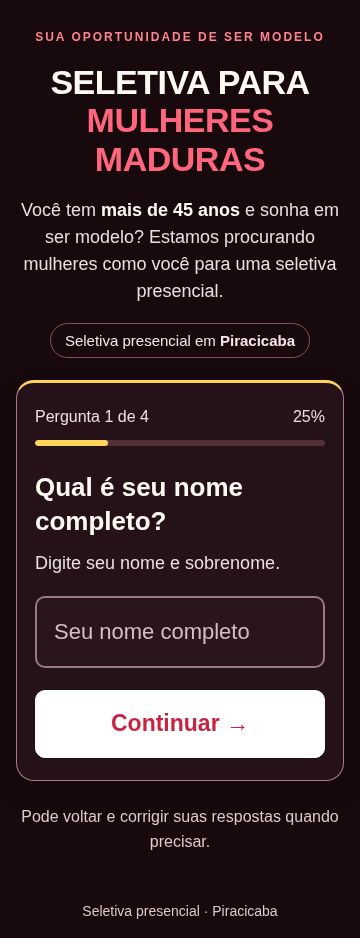
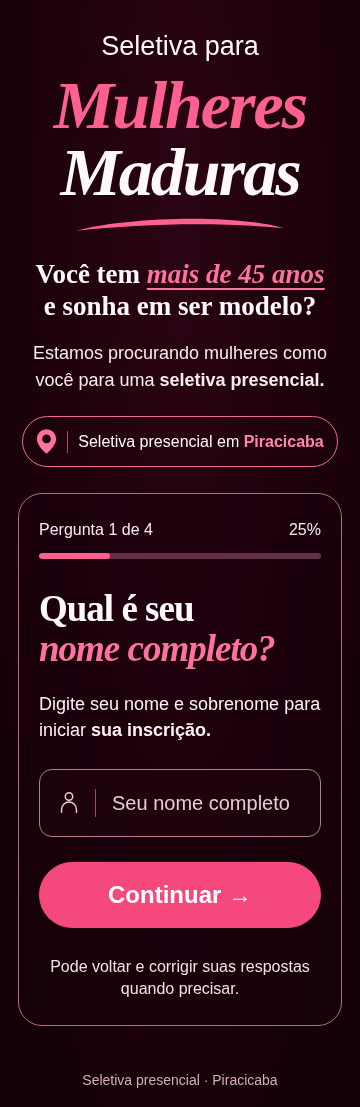
Aplicar referências em rosa e vinho ao questionário e cabeçalho [skip netlify]

diff --git a/index.html b/index.html
@@ -1,10 +1,10 @@
 <!DOCTYPE html>
 <html lang="pt-BR"><head><meta charset="UTF-8"><meta name="viewport" content="width=device-width,initial-scale=1"><meta name="description" content="Seletiva presencial em Piracicaba para mulheres acima de 45 anos que sonham em ser modelos. Inscreva-se respondendo a 4 perguntas simples."><title>Seletiva de modelos em Piracicaba | Mulheres acima de 45 anos</title>
 <style>
-*{box-sizing:border-box}body{margin:0;background:#17090c;color:#fff9f4;font-family:Arial,sans-serif;font-size:20px;line-height:1.55}p{margin:12px 0}.hero{padding:36px 20px 22px;text-align:center}.hero-inner{max-width:780px;margin:auto}.hero-kicker{margin:0 0 16px;color:#ff8292;font-size:12px;font-weight:700;letter-spacing:2px}.hero h1{margin:0 auto 18px;max-width:720px;font-family:Impact,'Arial Narrow',Arial,sans-serif;font-size:44px;line-height:1.14;letter-spacing:-.5px;text-transform:uppercase;overflow-wrap:break-word}.hero h1 span{color:#ff657c}.hero-copy{max-width:580px;margin:0 auto;color:#eadde0;font-size:19px;line-height:1.5}.hero-copy strong{color:#fff9f4}.hero-location{display:inline-block;margin:18px 0 0;padding:5px 14px;border:1px solid #85515c;border-radius:24px;color:#f5e3e7;font-size:15px}main{max-width:580px;margin:0 auto 30px;padding:0 24px}.form-intro{text-align:center;color:#eadde0;font-size:18px;margin:0 0 24px}.card{background:#251218;padding:28px;border:1px solid #a87884;border-top:3px solid #ffd45a;border-radius:18px;box-shadow:0 12px 28px #00000020}.progress-text{display:flex;justify-content:space-between;font-size:16px;color:#eadde0}.track{height:6px;background:#543039;border-radius:8px;margin:10px 0 25px;overflow:hidden}.fill{height:100%;background:#ffd45a;border-radius:8px;animation:progress-in 180ms ease-out both}h2{font-size:28px;line-height:1.3;margin:0 0 10px}.hint{font-size:18px;color:#eadde0;margin-bottom:18px}input{width:100%;min-width:0;font:inherit;font-size:22px;padding:17px;border:2px solid #9c7982;border-radius:10px;color:#fff9f4;background:#29151b;min-height:64px}input::placeholder{color:#d5bec5;opacity:1}input:focus,button:focus-visible{outline:3px solid #ffd45a;outline-offset:4px}input[aria-invalid=true]{border-color:#ff9ca9}button{font:inherit;font-weight:bold;cursor:pointer;border-radius:10px;min-height:62px;padding:15px 20px;touch-action:manipulation;white-space:normal;overflow-wrap:break-word}button:disabled{cursor:wait;opacity:.7}.primary{background:#fff;color:#c92343;border:1px solid #fff;flex:1 1 100%;width:100%;order:-1;font-size:23px;font-weight:900;min-height:66px;letter-spacing:0;box-shadow:none}.primary:hover{background:#fff3f5}.choice-yes:hover{background:#ffcb36}.back{background:transparent;border:1px solid #9c7982;color:#f5e3e7;font-size:18px;padding:14px}.actions{display:flex;flex-wrap:wrap;justify-content:center;gap:12px;margin-top:22px}.actions .back{min-height:48px;padding:8px 18px}.choice{display:block;width:100%;border:2px solid #9c7982;border-radius:12px;padding:19px 14px;margin:16px 0;cursor:pointer;font-size:20px;line-height:1.35;background:#29151b;color:#fff9f4}.choice-yes{background:#ffd45a;color:#302b20;border-color:#ffd45a;min-height:82px;font-size:24px;box-shadow:0 0 0 4px #ffd45a18,0 0 20px #ffd45a25}.primary,.choice{transition:transform 100ms ease,background-color 100ms ease}.primary:active,.choice:active{transform:scale(.985)}form{animation:question-in 180ms ease-out both}@keyframes question-in{from{opacity:0;transform:translateY(7px)}to{opacity:1;transform:translateY(0)}}@keyframes progress-in{from{width:var(--previous-progress)}}@media(prefers-reduced-motion:reduce){form,.fill,.primary{animation:none}.primary,.choice{transition:none}.primary:active,.choice:active{transform:none}}.error{color:#ffe5e9;background:#521f2b;border:1px solid #ff9ca9;padding:12px;border-radius:8px;font-size:18px;margin-top:16px}.error:empty{display:none}.privacy{font-size:16px;color:#dec9d0;margin-top:22px}.reassure{font-size:16px;text-align:center;color:#dec9d0;margin-top:24px}.success-icon{width:64px;height:64px;border-radius:50%;background:#ffd45a;color:#302b20;display:grid;place-items:center;font-size:34px;margin-bottom:20px}footer{text-align:center;color:#dec9d0;font-size:14px;padding:16px 20px}@media(max-width:600px){.hero{padding:28px 20px 22px}.hero h1{font-size:34px;max-width:440px}.hero-copy{font-size:18px}main{padding:0 16px}.card{padding:22px 18px}h2{font-size:26px}}@media(max-width:350px){.hero{padding-left:16px;padding-right:16px}.hero h1{font-size:30px}main{padding:0 12px}.card{padding:20px 14px}.choice-yes{font-size:22px}.back{padding:12px 10px}.primary{padding:14px 12px}}
+*{box-sizing:border-box}body{margin:0;background:#1b000b;background:radial-gradient(ellipse at 50% 20%,#2b0414 0%,#160008 80%);color:#fff9fb;font-family:Arial,sans-serif;font-size:20px;line-height:1.5}p{margin:12px 0}.hero{text-align:center;padding:36px 22px 28px}.hero-inner{max-width:740px;margin:auto}.hero h1{margin:0 auto 24px;max-width:600px;line-height:.98;font-weight:700}.hero h1 .title-intro{display:block;font-size:32px;font-weight:500;line-height:1.35;margin-bottom:8px}.title-women,.title-mature{display:block;font-family:Georgia,'Times New Roman',serif;font-style:italic;font-size:82px;letter-spacing:-3px}.title-women{color:#ff6090}.title-mature{color:#fff9fb}.title-swoosh{display:block;width:65%;height:18px;margin:10px auto 0;color:#ff6090}.hero-copy{margin:0 auto;max-width:620px}.hero-question{font-family:Georgia,'Times New Roman',serif;font-size:30px;line-height:1.2;font-weight:700;margin:0 0 18px}.hero-question em{color:#ff729e;font-style:italic;text-decoration:underline;text-decoration-thickness:2px;text-underline-offset:5px}.hero-description{font-size:19px;line-height:1.5;color:#f7eaf0;margin:0}.hero-location{display:inline-flex;align-items:center;justify-content:center;gap:12px;border:1.5px solid #f36a96;border-radius:40px;padding:11px 18px;margin:22px 0 0;font-size:17px;line-height:1.4}.hero-location svg{width:23px;height:29px;flex:none;color:#ff729e}.location-text{border-left:1px solid #a64b6a;padding-left:12px}.hero-location strong{color:#ff86ad}main{max-width:610px;margin:0 auto 28px;padding:0 20px}.card{padding:28px;border:1px solid #b46b85;border-radius:24px;background:#19000b55}.progress-text{display:flex;justify-content:space-between;gap:12px;font-size:16px;color:#f7eaf0}.track{height:6px;background:#633146;border-radius:8px;margin:11px 0 30px;overflow:hidden}.fill{height:100%;background:#ff6090;border-radius:8px;animation:progress-in 180ms ease-out both}h2{font-family:Georgia,'Times New Roman',serif;font-size:43px;line-height:1.08;letter-spacing:-1px;font-weight:700;margin:0 0 23px}h2 em{color:#ff729e;font-style:italic}.hint{font-size:19px;color:#fff0f5;line-height:1.4;margin:0 0 26px}.input-wrap{position:relative}.input-icon{position:absolute;top:50%;left:18px;transform:translateY(-50%);padding-right:14px;border-right:1px solid #a64b6a;display:flex;align-items:center;pointer-events:none;color:#f0c7d6}.input-icon svg{width:24px;height:28px}input{width:100%;min-width:0;font:inherit;font-size:20px;padding:18px 14px 18px 72px;border:1.5px solid #b87b91;border-radius:13px;color:#fff9fb;background:#ffffff03;min-height:67px}input::placeholder{color:#e6ccd7;opacity:1}input:focus,button:focus-visible{outline:3px solid #ff8eb2;outline-offset:4px}input[aria-invalid=true]{border-color:#ff9fbb}button{font:inherit;font-weight:700;cursor:pointer;min-height:62px;padding:14px 18px;touch-action:manipulation;white-space:normal;overflow-wrap:break-word}button:disabled{cursor:wait;opacity:.7}.primary{background:#f5487c;color:#fff;border:1px solid #f5487c;border-radius:40px;flex:1 1 100%;width:100%;order:-1;font-size:24px;min-height:65px;font-weight:700}.primary:hover,.choice-yes:hover{background:#df356a}.actions{display:flex;flex-wrap:wrap;justify-content:center;gap:12px;margin-top:25px}.back{background:transparent;border:1px solid #9e5a75;border-radius:24px;color:#ffe9f1;font-size:17px;min-height:46px;padding:9px 20px}.choice{display:block;width:100%;border:1.5px solid #b87b91;border-radius:18px;padding:18px 14px;margin:16px 0;font-size:20px;line-height:1.35;background:transparent;color:#fff9fb}.choice-yes{background:#f5487c;border-color:#f5487c;color:white;min-height:78px;font-size:23px}.primary,.choice{transition:transform 100ms ease,background-color 100ms ease}.primary:active,.choice:active{transform:scale(.985)}form{animation:question-in 180ms ease-out both}@keyframes question-in{from{opacity:0;transform:translateY(7px)}to{opacity:1;transform:translateY(0)}}@keyframes progress-in{from{width:var(--previous-progress)}}@media(prefers-reduced-motion:reduce){form,.fill{animation:none}.primary,.choice{transition:none}.primary:active,.choice:active{transform:none}}.error{color:#ffe5ef;background:#4b1328;border:1px solid #ff9fbb;padding:12px;border-radius:10px;font-size:18px;margin-top:16px}.error:empty{display:none}.privacy{font-size:16px;color:#ecd0dd;margin-top:22px}.reassure{font-size:16px;text-align:center;color:#f2dfe8;margin:28px 0 0;line-height:1.4}.success-icon{width:64px;height:64px;border-radius:50%;background:#f5487c;color:white;display:grid;place-items:center;font-size:34px;margin-bottom:20px}footer{text-align:center;color:#d4acbe;font-size:14px;padding:16px 20px}@media(max-width:600px){.hero{padding:28px 20px 26px}.hero h1 .title-intro{font-size:27px}.title-women,.title-mature{font-size:68px;letter-spacing:-2px}.hero-question{font-size:27px}.hero-description{font-size:18px}.hero-location{font-size:16px;padding:10px 13px;gap:10px}.hero-location svg{width:21px}.location-text{padding-left:10px}main{padding:0 18px}.card{padding:24px 20px}h2{font-size:37px}.hint{font-size:18px}.reassure{font-size:16px}}@media(max-width:350px){.hero{padding-left:16px;padding-right:16px}.title-women,.title-mature{font-size:60px}.hero-question{font-size:25px}.hero-location{font-size:15px}main{padding:0 14px}.card{padding:22px 17px}h2{font-size:33px}input{font-size:18px;padding-left:64px}.input-icon{left:14px;padding-right:10px}.primary{font-size:23px}.choice-yes{font-size:21px}}
 </style></head><body>
-<header class="hero"><div class="hero-inner"><p class="hero-kicker">SUA OPORTUNIDADE DE SER MODELO</p><h1>Seletiva para <span>MULHERES MADURAS</span></h1><p class="hero-copy">Você tem <strong>mais de 45 anos</strong> e sonha em ser modelo? Estamos procurando mulheres como você para uma seletiva presencial.</p><p class="hero-location">Seletiva presencial em <strong>Piracicaba</strong></p></div></header>
-<main><section class="card" aria-label="Formulário de inscrição"><div id="content"></div></section><p class="reassure">Pode voltar e corrigir suas respostas quando precisar.</p></main><footer>Seletiva presencial · Piracicaba</footer>
+<header class="hero"><div class="hero-inner"><h1><span class="title-intro">Seletiva para</span><span class="title-women">Mulheres</span><span class="title-mature">Maduras</span><svg class="title-swoosh" viewBox="0 0 320 20" aria-hidden="true"><path d="M0 19C80-3 244-7 320 15C216 5 103 8 0 19Z" fill="currentColor"/></svg></h1><div class="hero-copy"><p class="hero-question">Você tem <em>mais de 45 anos</em><br>e sonha em ser modelo?</p><p class="hero-description">Estamos procurando mulheres como você para uma <strong>seletiva presencial.</strong></p></div><p class="hero-location"><svg viewBox="0 0 24 30" aria-hidden="true"><path fill="currentColor" d="M12 1a11 11 0 0 0-11 11c0 8 11 17 11 17s11-9 11-17A11 11 0 0 0 12 1Zm0 16a5 5 0 1 1 0-10 5 5 0 0 1 0 10Z"/></svg><span class="location-text">Seletiva presencial em <strong>Piracicaba</strong></span></p></div></header>
+<main><section class="card" aria-label="Formulário de inscrição"><div id="content"></div><p class="reassure">Pode voltar e corrigir suas respostas quando precisar.</p></section></main><footer>Seletiva presencial · Piracicaba</footer>
 <script>
 const META_PIXEL_ID = '1801282187897715';
 const trackedSteps = new Set();
@@ -30,11 +30,13 @@ const normalizeAge = function normalizeAge(value) {
 };
 const values={name:'',age:'',phone:'',attendance:null};let step=0,busy=false,previousProgress=0;const content=document.getElementById('content');
 const questions=['Qual é seu nome completo?','Qual é sua idade?','Qual é seu celular com DDD?','Você consegue comparecer à seletiva presencial em Piracicaba?'];
-const hints=['Digite seu nome e sobrenome.','Digite sua idade. Pode escrever 52 ou 52 anos.','Digite o DDD e o número do seu celular.','Toque na sua resposta para concluir a inscrição.'];
+const hints=['Digite seu nome e sobrenome para iniciar <strong>sua inscrição.</strong>','Digite sua idade. Pode escrever 52 ou 52 anos.','Digite o DDD e o número do seu celular.','Toque na sua resposta para concluir a inscrição.'];
+const questionMarkup=['Qual é seu<br><em>nome completo?</em>','Qual é sua<br><em>idade?</em>','Qual é seu<br><em>celular com DDD?</em>','Você consegue <em>comparecer</em> à seletiva presencial em Piracicaba?'];
+const fieldIcons=['<circle cx="12" cy="8" r="4"/><path d="M4 25v-3a8 8 0 0 1 16 0v3"/>','<rect x="3" y="6" width="18" height="20" rx="3"/><path d="M7 2v8M17 2v8M3 13h18M8 18h2M14 18h2"/>','<rect x="5" y="2" width="14" height="25" rx="3"/><path d="M10 23h4"/>'];
 function save(){const field=document.getElementById('answer');if(step<3&&field) values[['name','age','phone'][step]]=field.value;}
 function showError(message){const el=document.getElementById('error');el.textContent=message;document.getElementById('answer')?.setAttribute('aria-invalid','true');}
-function render(focus=false){if(!trackedSteps.has(step)){trackedSteps.add(step);trackMeta('FormStepViewed',{step:step+1});}content.innerHTML='<div class="progress-text"><span>Pergunta '+(step+1)+' de 4</span><span>'+Math.round((step+1)/4*100)+'%</span></div><div class="track" aria-hidden="true"><div class="fill" style="--previous-progress:'+previousProgress+'%;width:'+((step+1)*25)+'%"></div></div><form novalidate><h2 id="question" tabindex="-1">'+questions[step]+'</h2><p class="hint" id="hint">'+hints[step]+'</p><div id="fields"></div><p id="error" class="error" role="alert"></p><div class="actions">'+(step?'<button type="button" class="back">← Voltar</button>':'')+(step<3?'<button type="submit" class="primary">Continuar →</button>':'')+'</div>'+(step===3?'<p class="privacy">Ao tocar em uma resposta, você conclui sua inscrição e autoriza o uso do seu nome, idade e celular para organizar esta seletiva e entrar em contato sobre sua inscrição.</p>':'')+'</form>';
-previousProgress=(step+1)*25;const fields=document.getElementById('fields');if(step<3){const input=document.createElement('input');input.id='answer';input.setAttribute('aria-labelledby','question');input.setAttribute('aria-describedby','hint error');input.required=true;input.type='text';input.inputMode=step===2?'tel':'text';input.autocomplete=step===0?'name':step===2?'tel-national':'off';input.maxLength=step===0?150:step===1?30:16;input.placeholder=['Seu nome completo','Sua idade','(19) 99999-9999'][step];input.value=values[['name','age','phone'][step]];fields.append(input);input.addEventListener('input',()=>{if(!formStarted){formStarted=true;trackMeta('FormStarted');}if(step===2){let d=input.value.replace(/\D/g,'').slice(0,11);input.value=d.length>2?'('+d.slice(0,2)+') '+d.slice(2,7)+(d.length>7?'-'+d.slice(7):''):d;}save();});}else{fields.setAttribute('role','group');fields.setAttribute('aria-labelledby','question');for(const [value,text] of [[true,'Sim, consigo comparecer'],[false,'Não consigo comparecer']]){const button=document.createElement('button');button.type='button';button.className=value?'choice choice-yes':'choice choice-no';button.textContent=text;button.addEventListener('click',()=>{if(busy)return;values.attendance=value;submit({preventDefault(){}},button);});fields.append(button);}}
+function render(focus=false){if(!trackedSteps.has(step)){trackedSteps.add(step);trackMeta('FormStepViewed',{step:step+1});}content.innerHTML='<div class="progress-text"><span>Pergunta '+(step+1)+' de 4</span><span>'+Math.round((step+1)/4*100)+'%</span></div><div class="track" aria-hidden="true"><div class="fill" style="--previous-progress:'+previousProgress+'%;width:'+((step+1)*25)+'%"></div></div><form novalidate><h2 id="question" tabindex="-1">'+questionMarkup[step]+'</h2><p class="hint" id="hint">'+hints[step]+'</p><div id="fields"></div><p id="error" class="error" role="alert"></p><div class="actions">'+(step?'<button type="button" class="back">← Voltar</button>':'')+(step<3?'<button type="submit" class="primary">Continuar →</button>':'')+'</div>'+(step===3?'<p class="privacy">Ao tocar em uma resposta, você conclui sua inscrição e autoriza o uso do seu nome, idade e celular para organizar esta seletiva e entrar em contato sobre sua inscrição.</p>':'')+'</form>';
+previousProgress=(step+1)*25;const fields=document.getElementById('fields');if(step<3){const input=document.createElement('input');input.id='answer';input.setAttribute('aria-labelledby','question');input.setAttribute('aria-describedby','hint error');input.required=true;input.type='text';input.inputMode=step===2?'tel':'text';input.autocomplete=step===0?'name':step===2?'tel-national':'off';input.maxLength=step===0?150:step===1?30:16;input.placeholder=['Seu nome completo','Sua idade','(19) 99999-9999'][step];input.value=values[['name','age','phone'][step]];const wrap=document.createElement('div');wrap.className='input-wrap';const icon=document.createElement('span');icon.className='input-icon';icon.setAttribute('aria-hidden','true');icon.innerHTML='<svg viewBox="0 0 24 30" fill="none" stroke="currentColor" stroke-width="1.6" stroke-linecap="round" stroke-linejoin="round">'+fieldIcons[step]+'</svg>';wrap.append(icon,input);fields.append(wrap);input.addEventListener('input',()=>{if(!formStarted){formStarted=true;trackMeta('FormStarted');}if(step===2){let d=input.value.replace(/\D/g,'').slice(0,11);input.value=d.length>2?'('+d.slice(0,2)+') '+d.slice(2,7)+(d.length>7?'-'+d.slice(7):''):d;}save();});}else{fields.setAttribute('role','group');fields.setAttribute('aria-labelledby','question');for(const [value,text] of [[true,'Sim, consigo comparecer'],[false,'Não consigo comparecer']]){const button=document.createElement('button');button.type='button';button.className=value?'choice choice-yes':'choice choice-no';button.textContent=text;button.addEventListener('click',()=>{if(busy)return;values.attendance=value;submit({preventDefault(){}},button);});fields.append(button);}}
 content.querySelector('.back')?.addEventListener('click',()=>{save();step--;render(true)});content.querySelector('form').addEventListener('submit',submit);if(focus)document.getElementById('question').focus();}
 async function submit(event,selectedButton){event.preventDefault();if(busy)return;save();let error='';if(step===0&&(values.name.trim().split(/\s+/).length<2||!/^[\p{L}\p{M} '\-]+$/u.test(values.name.trim())))error='Digite seu nome completo, com nome e sobrenome.';if(step===1&&(!Number.isInteger(normalizeAge(values.age))||normalizeAge(values.age)<1||normalizeAge(values.age)>120))error='Digite sua idade. Pode escrever 52 ou 52 anos.';if(step===2&&!/^\d{2}9\d{8}$/.test(values.phone.replace(/\D/g,'')))error='Digite seu celular com DDD: 2 números do DDD e 9 do celular.';if(step===3&&values.attendance===null)error='Escolha Sim ou Não para continuar.';if(error){showError(error);return;}if(step<3){trackCompletion(step+1);step++;render(true);return;}busy=true;content.querySelectorAll('button,input').forEach(el=>el.disabled=true);const btn=selectedButton||content.querySelector('.choice-yes');const originalText=btn.textContent;btn.textContent='Enviando sua inscrição…';try{const response=await fetch('/api/inscricao',{method:'POST',headers:{'Content-Type':'application/json'},body:JSON.stringify(values)});const result=await response.json();if(!response.ok)throw Error(result.error||'Não foi possível concluir. Tente novamente.');trackCompletion(4);trackMeta('Lead',{},result.eventId);content.innerHTML='<div class="success-icon" aria-hidden="true">✓</div><h2 tabindex="-1">Inscrição concluída!</h2><p>Suas respostas foram recebidas.</p><p>Obrigada por se inscrever na seletiva em Piracicaba.</p><p class="hint">Você já pode fechar esta página.</p>';content.querySelector('h2').focus();document.querySelector('.reassure').hidden=true;Object.keys(values).forEach(key=>values[key]=null);}catch(e){showError(e instanceof TypeError?'Não conseguimos conectar. Confira sua internet e toque na resposta para tentar novamente. Suas respostas continuam aqui.':(e.message||'Confira sua conexão e tente novamente.'));content.querySelectorAll('button,input').forEach(el=>el.disabled=false);btn.textContent=originalText;}finally{busy=false;}}
 render();
